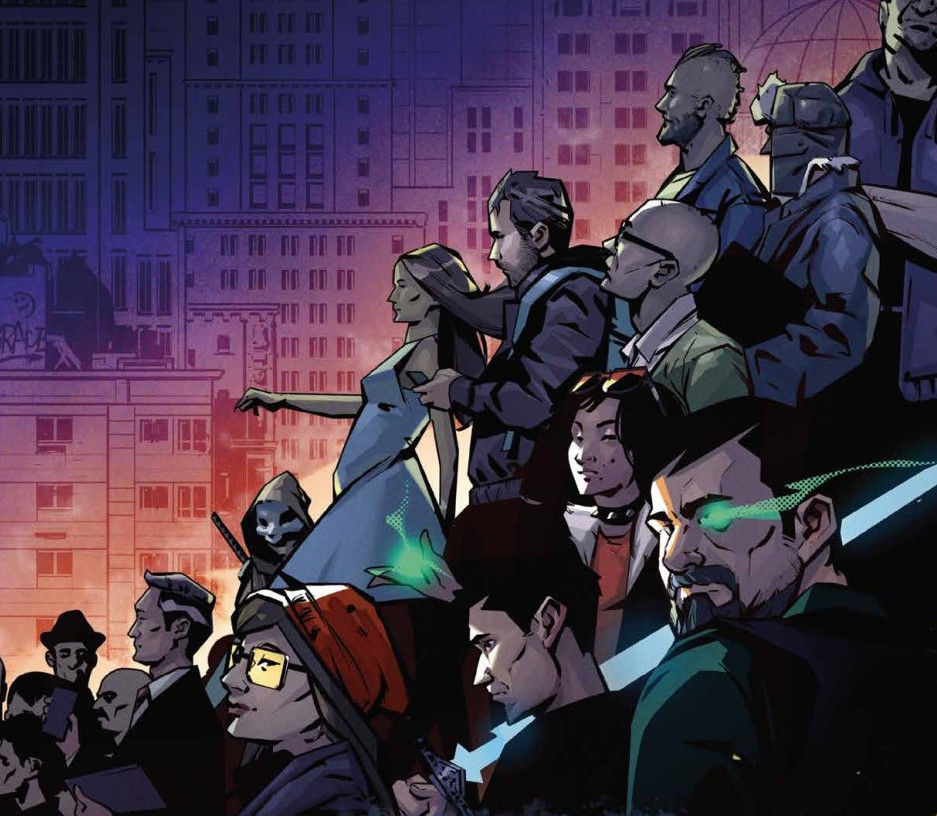
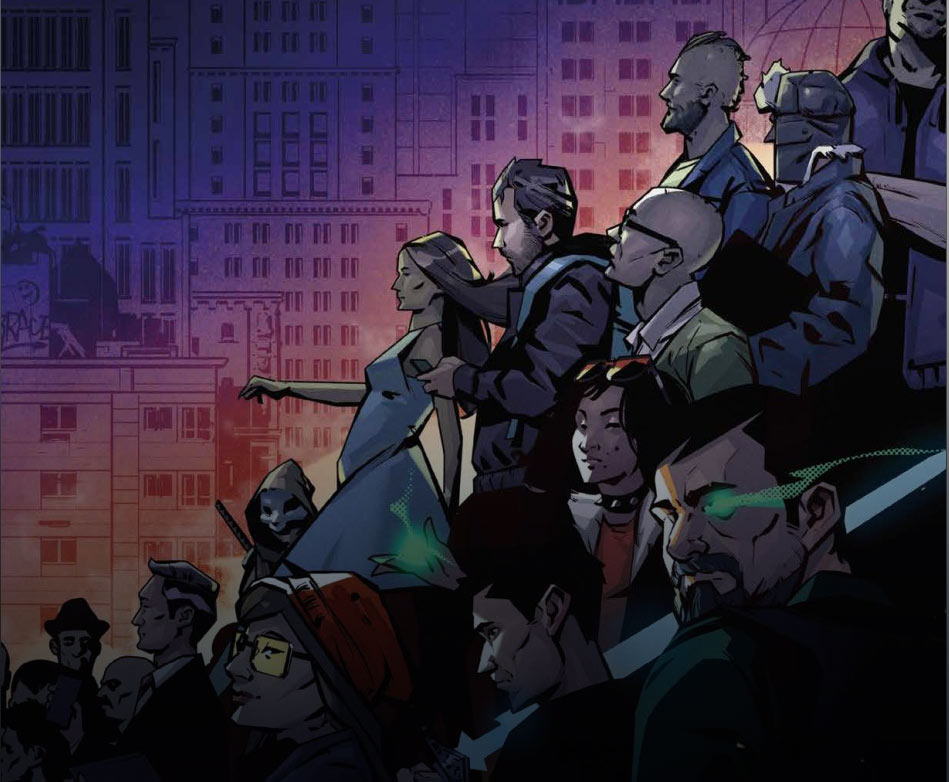
separate bilder for thumbnails

diff --git a/con-organizer/components/EventCardHeader.tsx b/con-organizer/components/EventCardHeader.tsx
@@ -48,11 +48,13 @@ const EventCardHeader = ({ conEvent }: Props) => {
             ) : null}
             <Box
                 sx={{
-                    backgroundImage: `url(${conEvent?.imageUrl || '/image/placeholder.jpg'})`,
+                    backgroundImage: `url(${
+                        'image/programm/listview' + conEvent?.imageUrl || '/image/placeholder.jpg'
+                    })`,
                     backgroundSize: 'cover',
-                    // backgroundBlendMode: 'multiply',
+                    backgroundBlendMode: 'multiply',
                     backgroundPositionY: 'bottom',
-                    backgroundColor: '#888',
+                    backgroundColor: '#ccc',
                     display: 'flex',
                     alignItems: 'space-between',
                     flexDirection: 'column',
